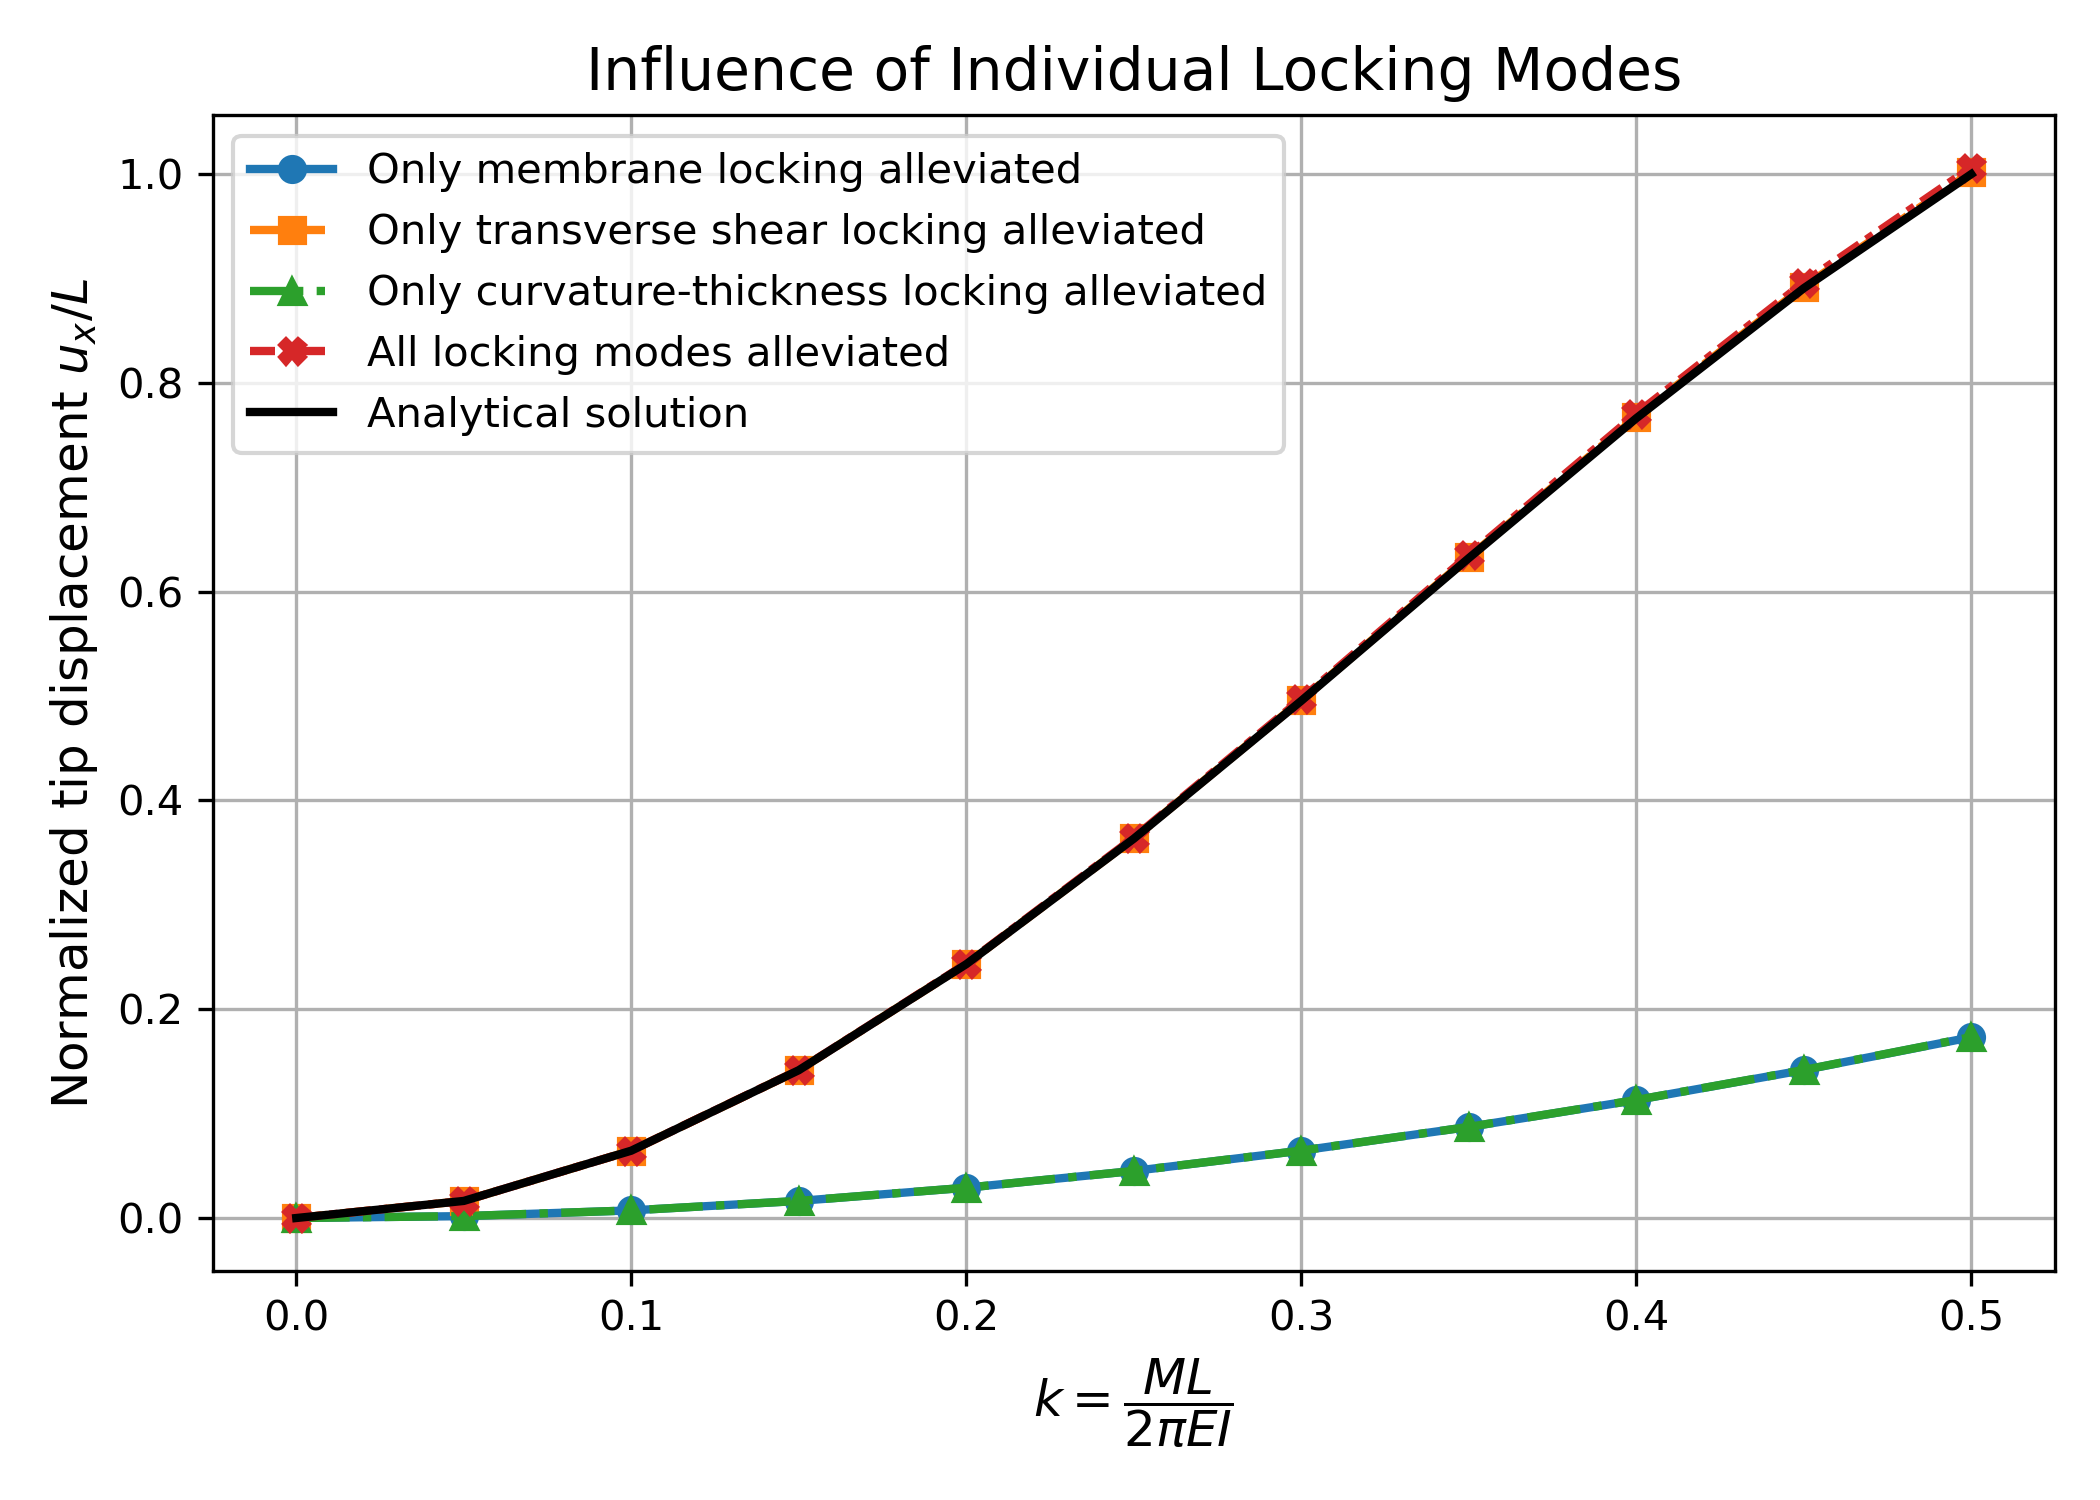
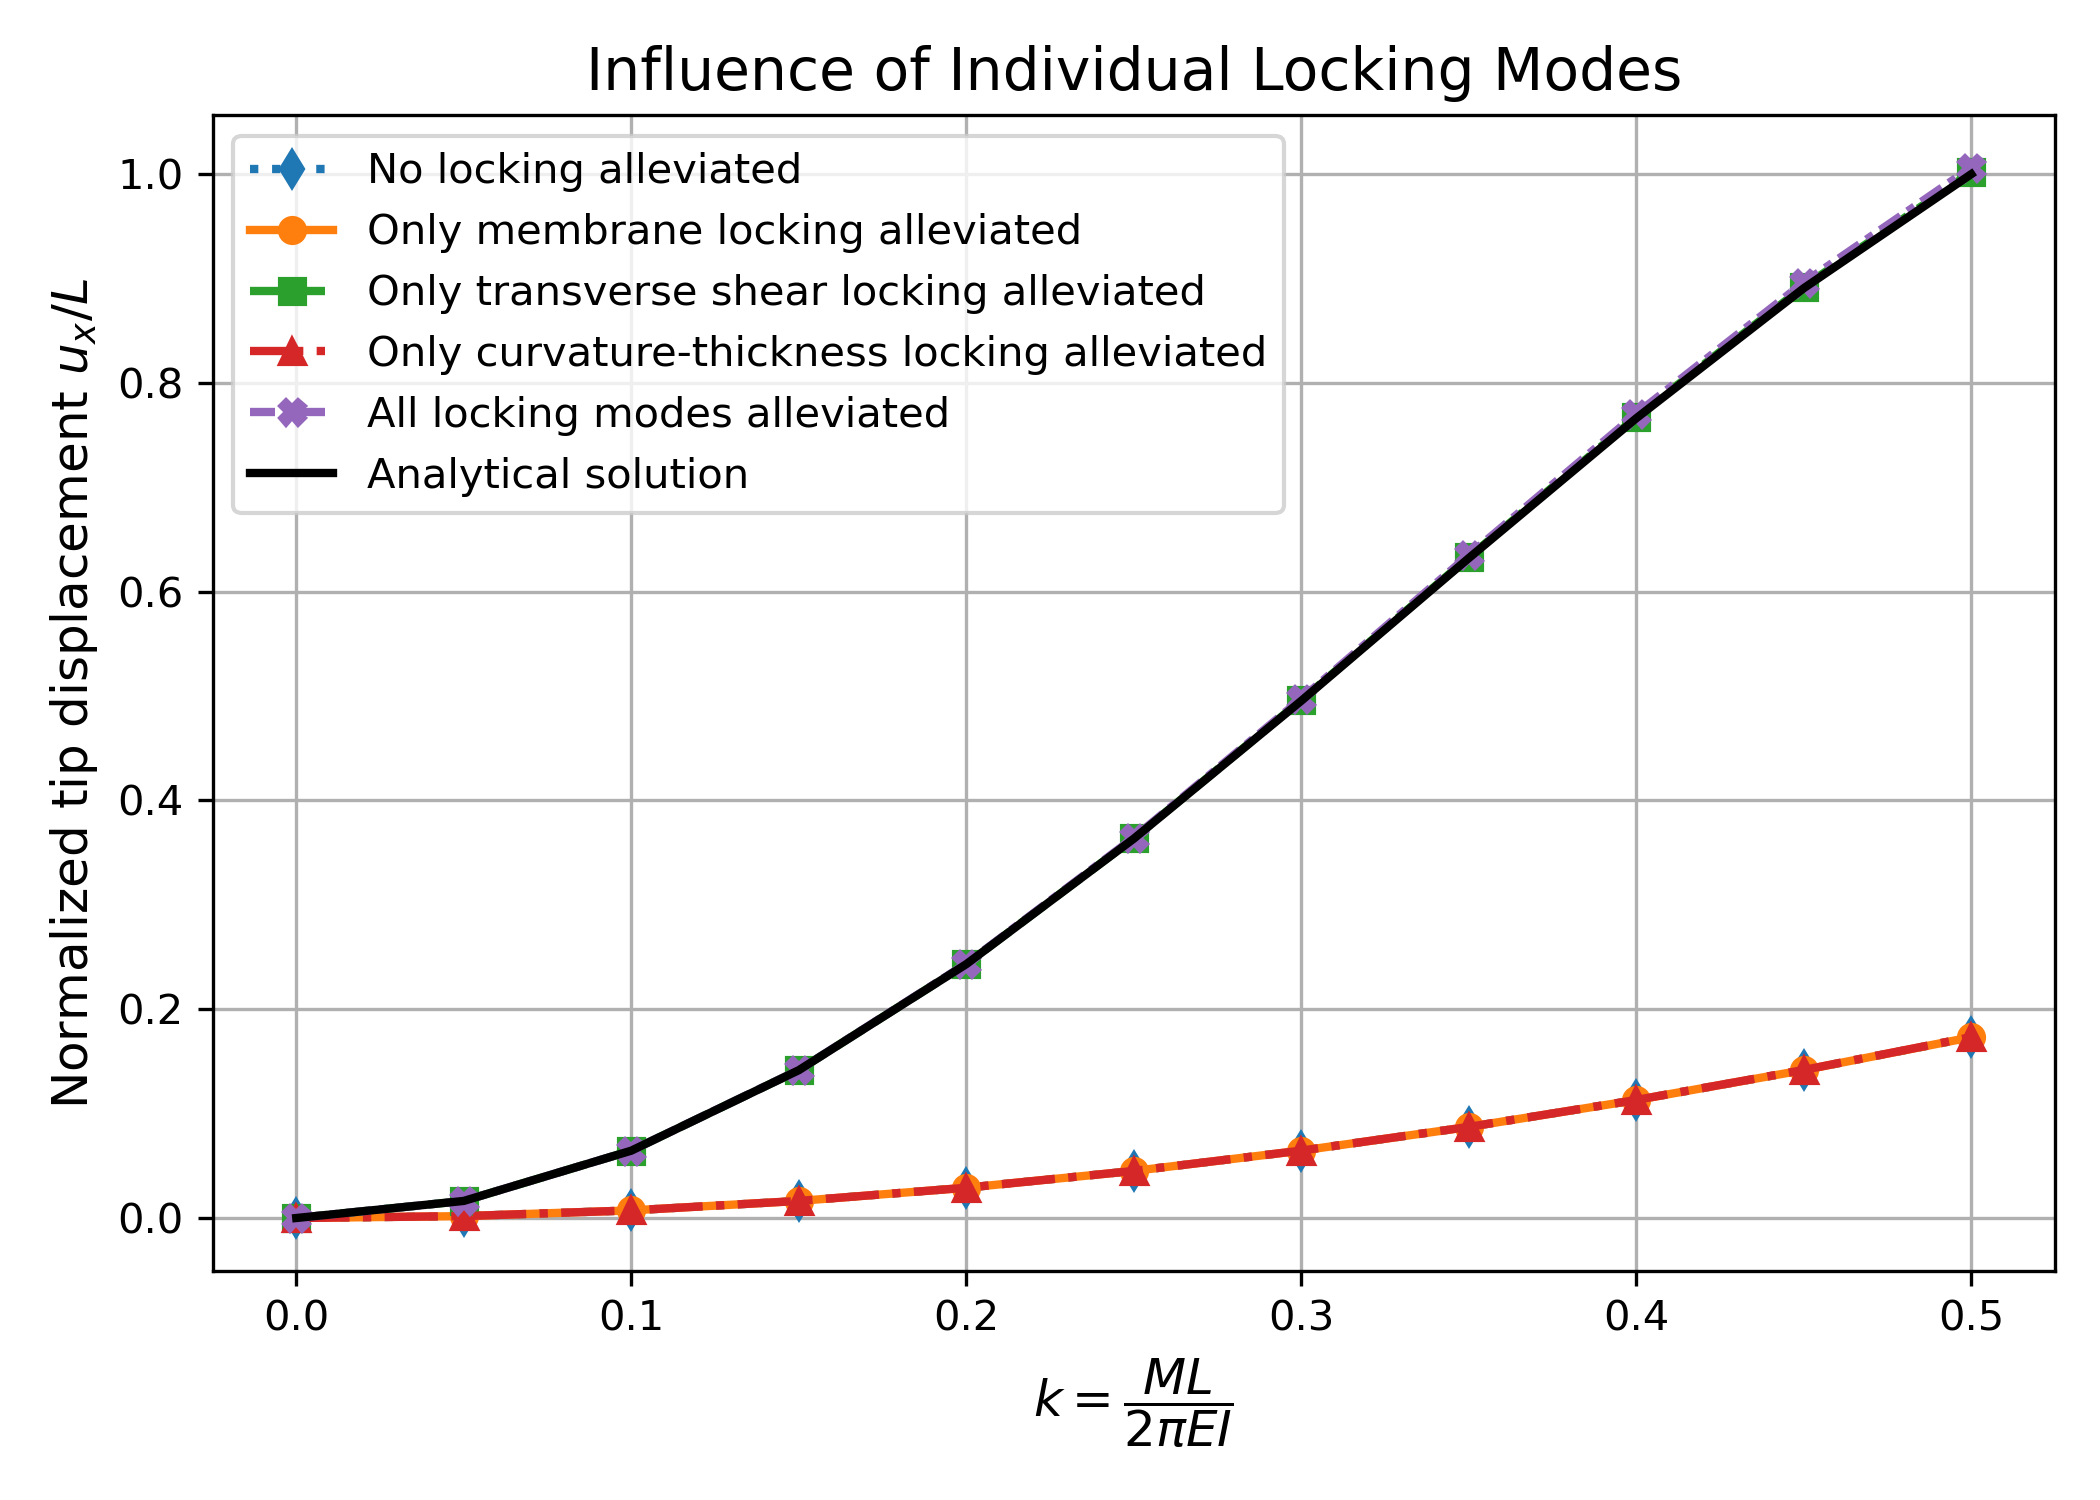
Update figure

diff --git a/src/solid-beams/automation_1.py b/src/solid-beams/automation_1.py
@@ -39,6 +39,7 @@ visualize_final = False
 # ==============================
 
 cases = [
+    {"label": "No locking alleviated", "ANS_membrane": False, "ANS_shear": False, "ANS_curvature": False},
     {"label": "Only membrane locking alleviated", "ANS_membrane": True, "ANS_shear": False, "ANS_curvature": False},
     {"label": "Only transverse shear locking alleviated", "ANS_membrane": False, "ANS_shear": True, "ANS_curvature": False},
     {"label": "Only curvature-thickness locking alleviated", "ANS_membrane": False, "ANS_shear": False, "ANS_curvature": True},
@@ -84,6 +85,7 @@ plt.figure(figsize=(7, 5))
 
 # Match styles by label string
 markers = {
+    "No locking alleviated": "d",
     "Only membrane locking alleviated": "o",
     "Only transverse shear locking alleviated": "s",
     "Only curvature-thickness locking alleviated": "^",
@@ -91,6 +93,7 @@ markers = {
 }
 
 linestyles = {
+    "No locking alleviated": ":",
     "Only membrane locking alleviated": "-",
     "Only transverse shear locking alleviated": "--",
     "Only curvature-thickness locking alleviated": "-.",
@@ -113,7 +116,7 @@ for label, tips in tip_displacements_all:
         label=label
     )
 
-# Analytical solution
+# Analytical solution from Euler's elastica
 analytical = np.array([
     0, 0.016368357, 0.064510716, 0.141606309, 0.243173271,
     0.363380228, 0.495448848, 0.632116989, 0.766127679,
